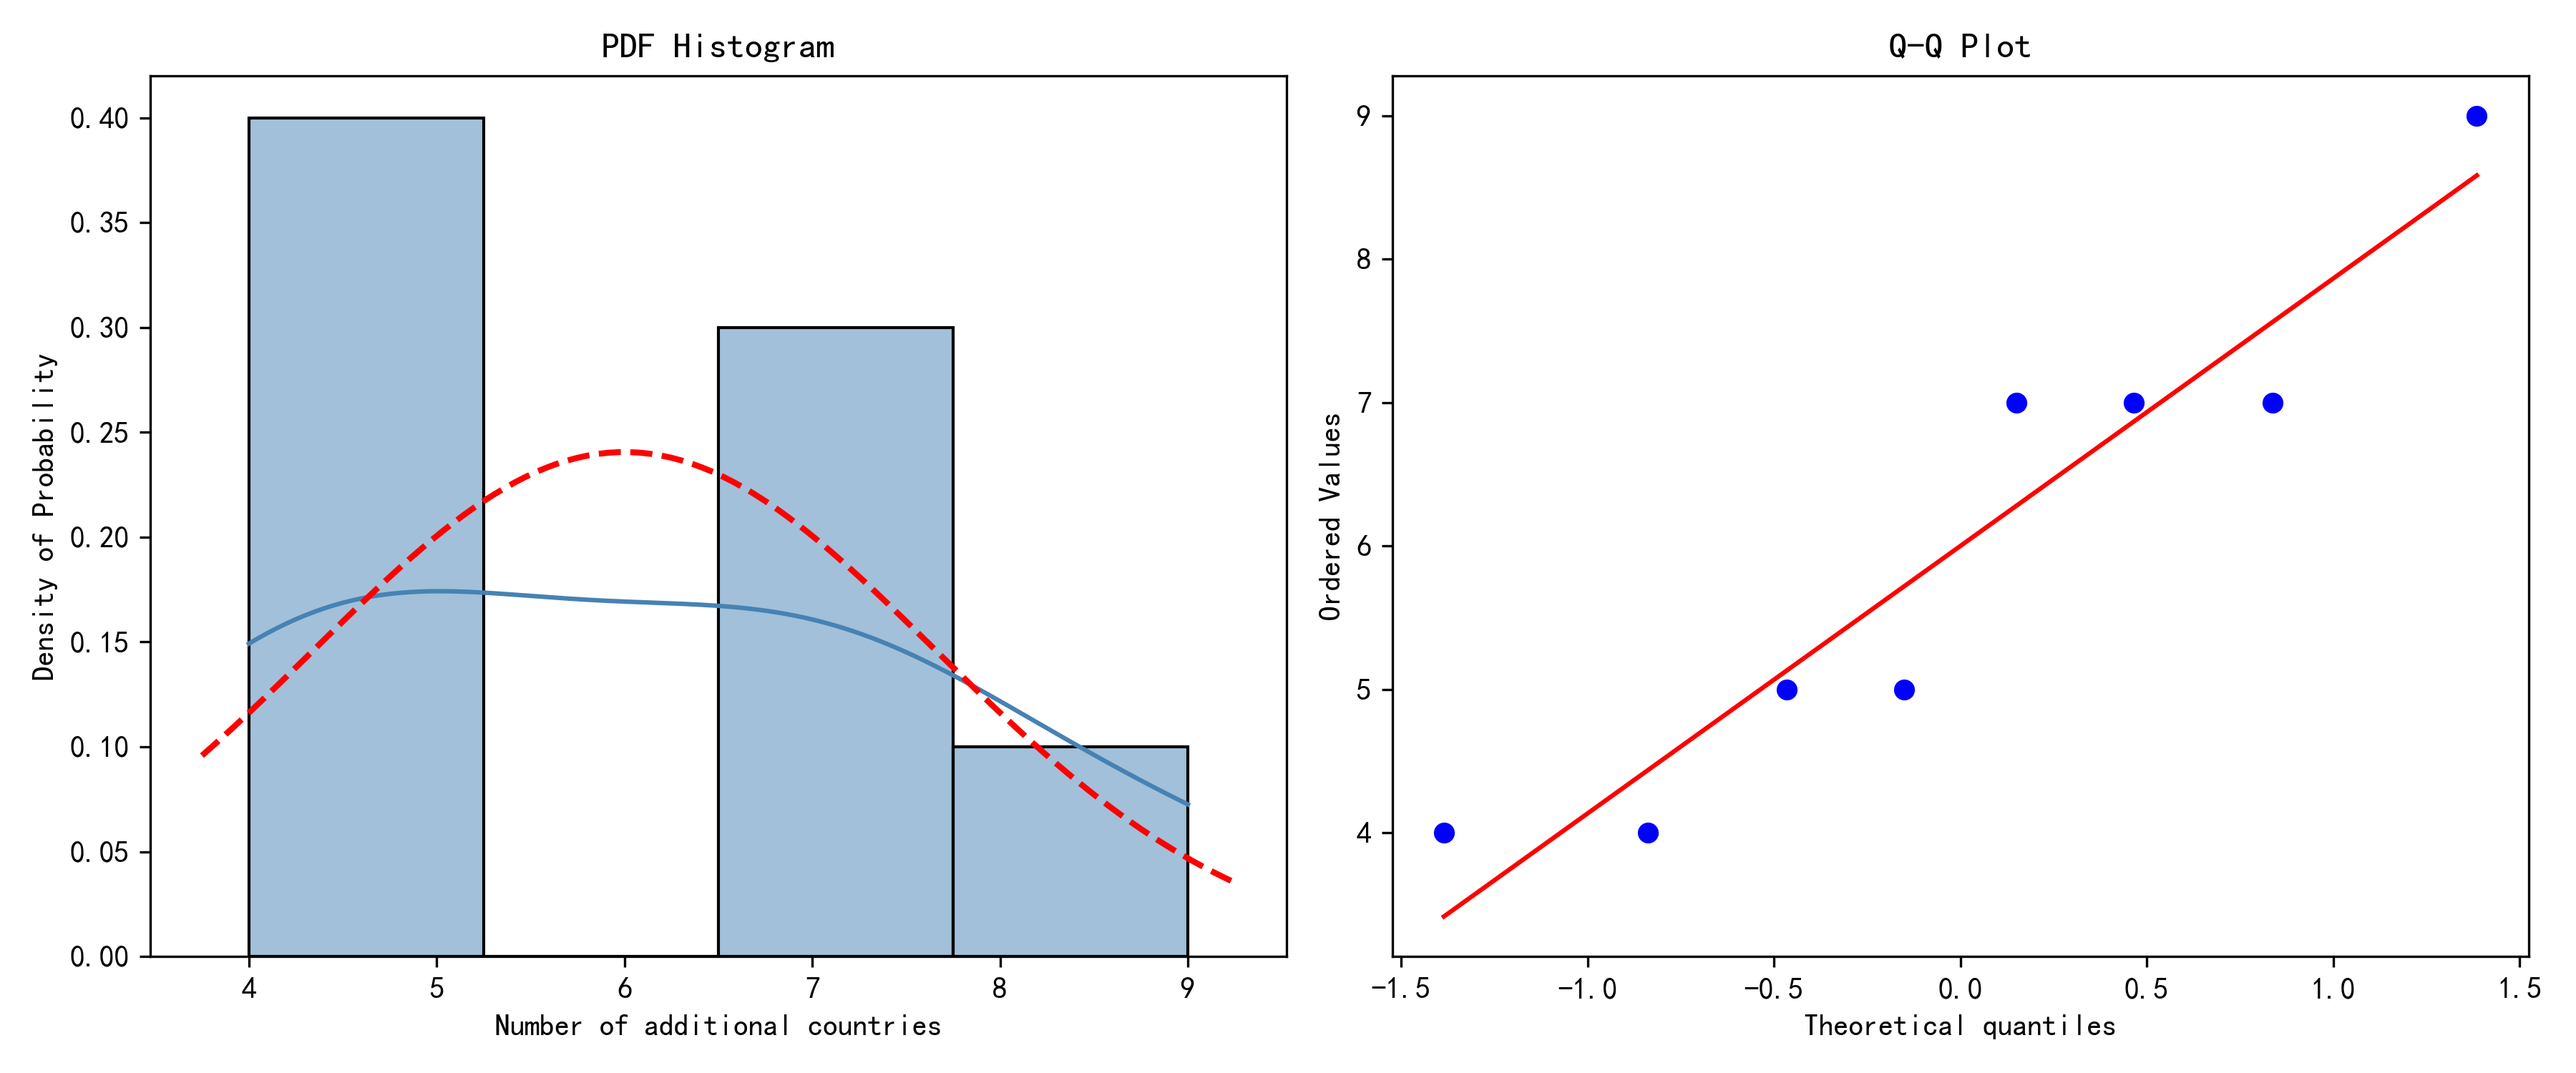
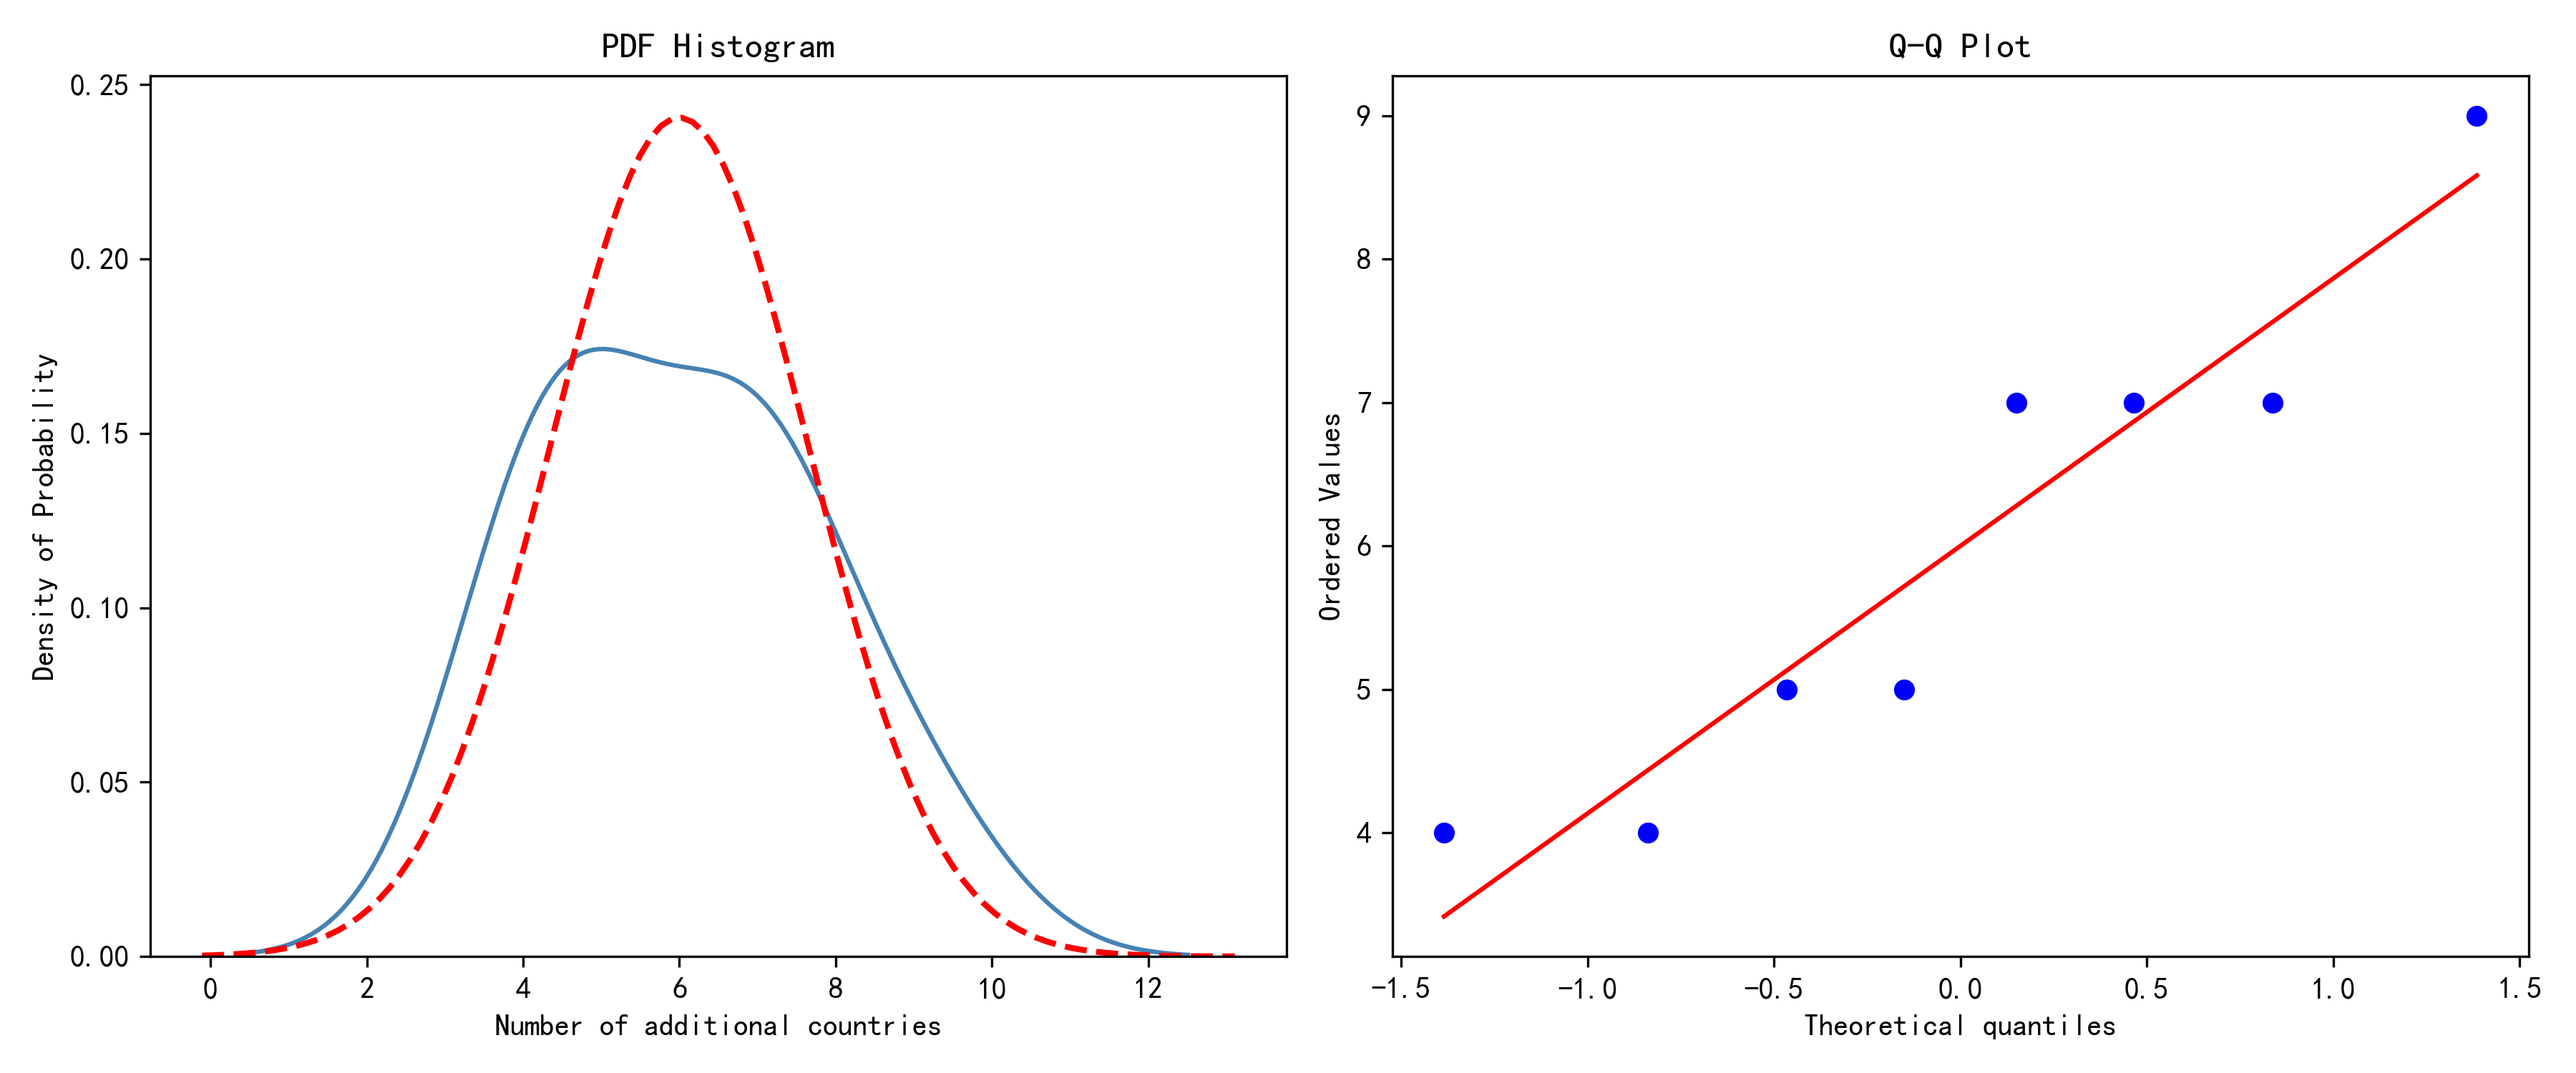
1231212

diff --git a/first_medal_de1996.py b/first_medal_de1996.py
@@ -87,7 +87,8 @@ def normality_analysis(year_data):
 
     # 直方图
     plt.subplot(1, 2, 1)
-    sns.histplot(sample, kde=True, stat="density", color="steelblue")
+    # sns.histplot(sample, kde=True, stat="density", color="steelblue", element="step")
+    sns.kdeplot(data=sample, color="steelblue")
     xmin, xmax = plt.xlim()
     x = np.linspace(xmin, xmax, 100)
     p = stats.norm.pdf(x, np.mean(sample), np.std(sample))
@@ -102,13 +103,14 @@ def normality_analysis(year_data):
     plt.title("Q-Q Plot")
 
     plt.tight_layout()
-    plt.savefig("plots/first_medal/normality_analysis.png",dpi=300)
+    plt.savefig("plots/first_medal/normality_analysis.png", dpi=300)
     plt.show()
 
     # 结果解读
     alpha = 0.05
     conclusion = "服从正态分布" if shapiro_p > alpha else "不服从正态分布"
     print(f"\n结论（α={alpha}）：数据{conclusion}")
+    return x, p
 
 
 if __name__ == "__main__":
